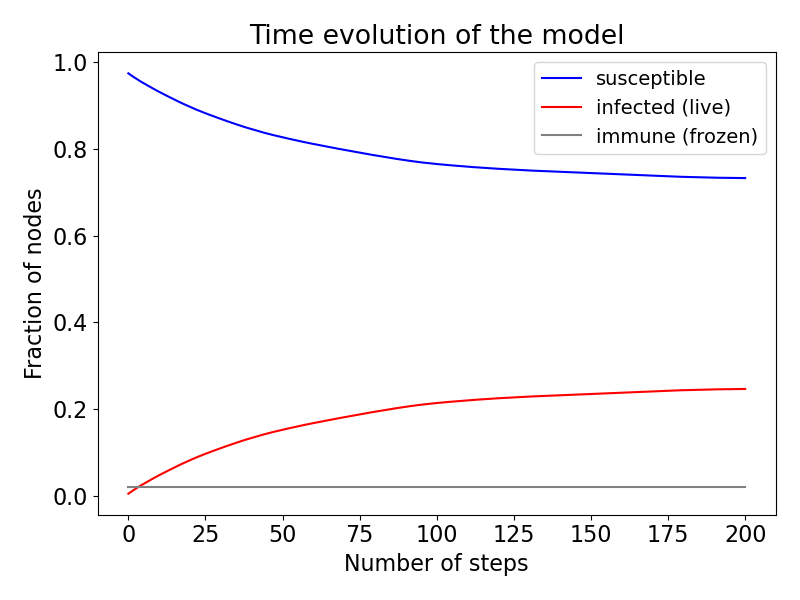
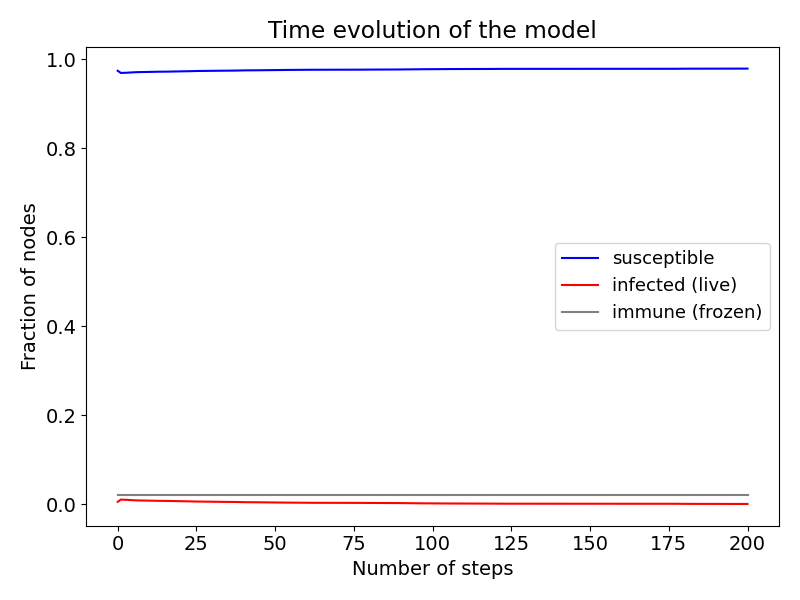
change colour scheme and default recovery time

diff --git a/p1b_percolation/model.py b/p1b_percolation/model.py
@@ -48,7 +48,7 @@ class PercolationModel:
         frozen_prob=0.0,
         *,
         transmission_prob=1.0,
-        recovery_time=maxsize,
+        recovery_time=1,
         recovered_are_frozen=False,
         shuffle_prob=0.0,
         nucleus_size=1,
@@ -111,10 +111,14 @@ class PercolationModel:
 
     @recovery_time.setter
     def recovery_time(self, new_value):
-        """Setter for recovery_time. Raises ValueError if input is less than 1."""
-        if new_value < 1:
-            raise ValueError("Please enter a recovery time of 1 or more steps.")
-        self._recovery_time = new_value
+        """Setter for recovery_time. Providing a negative number sets the recovery time
+        to be effectively infinite. Raises TypeError if input is not an int."""
+        if type(new_value) is not int:
+            raise TypeError("Please provide an integer for the recovery time")
+        if new_value < 0:
+            new_value = maxsize - 1
+        # Add one since order of update loop is to reduce step counter first
+        self._recovery_time = new_value + 1
 
     @property
     def recovered_are_frozen(self):
@@ -448,6 +452,14 @@ class PercolationModel:
                 "Please enter a positive number of steps for the animation."
             )
 
+        # For now, set cmap based on number of links
+        if self.network.n_links == 1:
+            cmap = "afmhot"
+        elif self.network.n_links == 3:
+            cmap = "seismic_r"
+        else:
+            cmap = "YlOrRd"
+
         fig, ax = plt.subplots()
         ax.set_axis_off()
 
@@ -455,6 +467,7 @@ class PercolationModel:
             self.state,
             norm=colors.Normalize(vmin=0, vmax=self.recovery_time),
             zorder=0,
+            cmap=cmap,
         )
         overlay = ax.imshow(
             self.frozen,

diff --git a/p1b_percolation/config.py b/p1b_percolation/config.py
@@ -1,5 +1,4 @@
 import configargparse
-from sys import maxsize
 
 parser = configargparse.ArgParser()
 
@@ -50,7 +49,7 @@ parser.add(
 parser.add(
     "--recovery-time",
     type=int,
-    default=maxsize,
+    default=1,
     help="number of time steps before a live node is considered to have recovered, and is no longer able to transmit",
 )
 

diff --git a/README.md b/README.md
@@ -17,8 +17,23 @@ In the top right corner, click '+GitRepo' and paste *https://github.com/marshros
 The 'Branch' box should say *master*.
 Click 'Clone'.
 
-Navigate to `/p1b-percolation/laboratory/` and click on an `.ipynb` file to start the notebook.
+Again in the top right corner, click 'New' and then select 'Terminal' in the drop-down menu.
+A window should appear which looks rather intimidating.
+Don't worry!
+We just need to run two commands --- you can copy and paste them from below.
+```bash
+cd p1b-percolation
+python -m pip install -e .
+```
+The second line should cause the terminal to chat to you a little bit about how it's finding the installation process, and eventually it should say `Successfully installed p1b-percolation`.
 
+You can close this window now, and close the terminal session by clicking the 'Running' tab (next to 'Files') and pressing the 'Shutdown' button.
+
+Back in the files tab, navigate to `/p1b-percolation/laboratory/` and click on an `.ipynb` file to start the notebook.
+
+#### I'm having problems with the terminal installation
+
+I'm going to make some changes very shortly which mean you don't need to install anything via the terminal.
 
 ### Local installation
 
